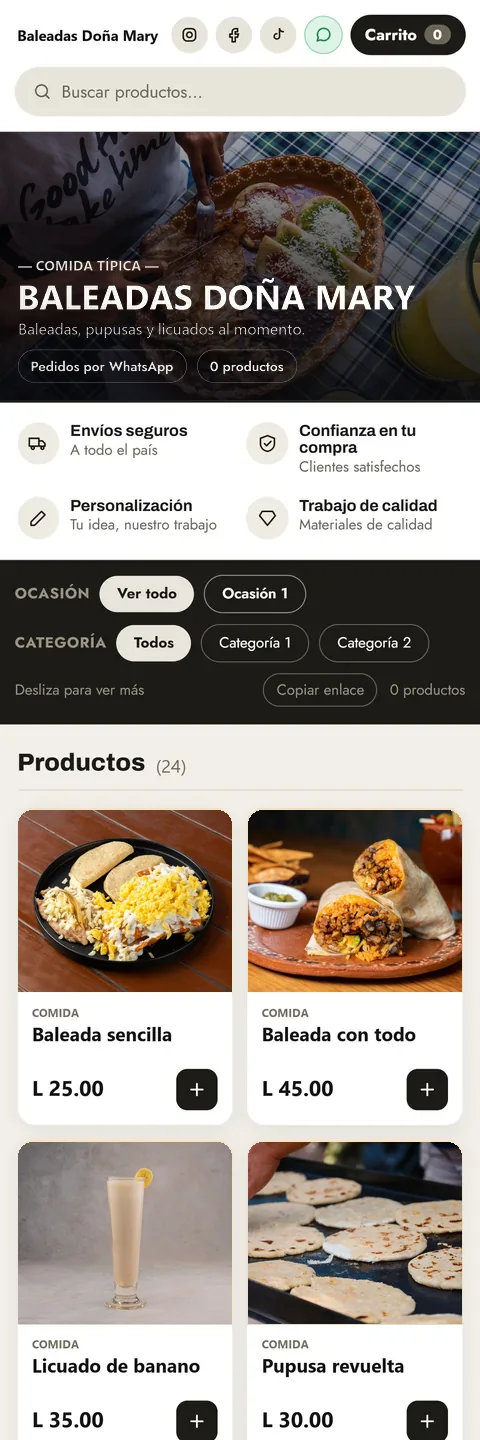
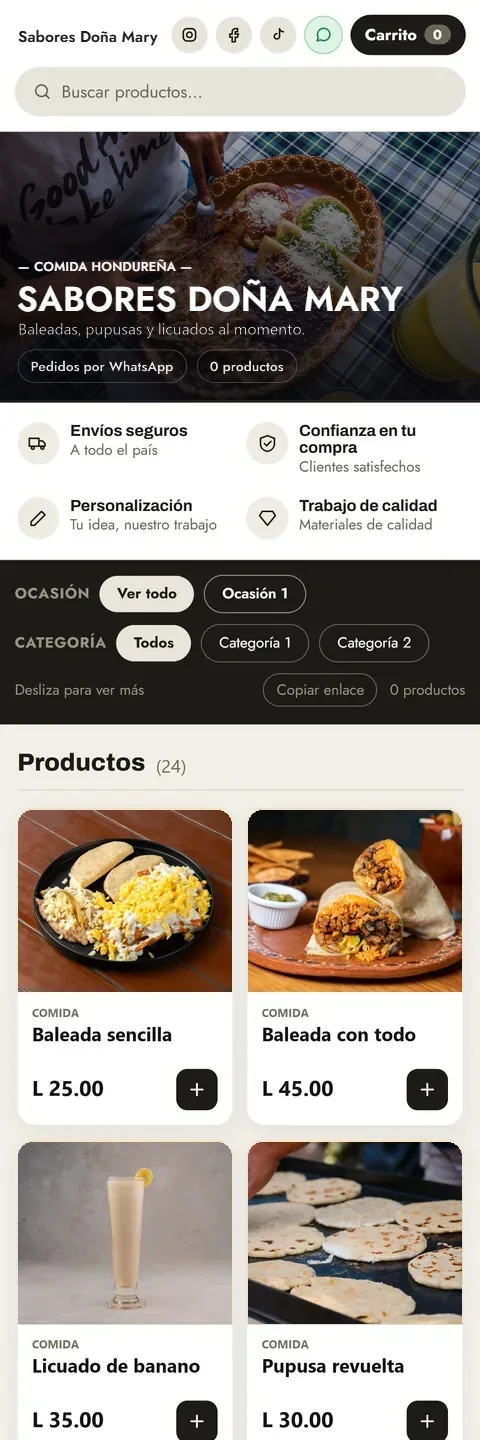
Nombres de ejemplo más formales, menú Inicio, redes sociales e imagen al compartir más nítida
- Sabores Doña Mary, Repostería La Espiga y Glamour Studio (también dentro de los catálogos)
- "Inicio" en el menú y en el pie; íconos de redes (solo las que tengan enlace)
- Título al compartir con DRC System; imagen con laptop y logo más grandes

Changed region(s): [[0.0312, 0.1562, 0.875, 0.2188], [0.0312, 0.0, 0.3125, 0.0312]]

diff --git a/css/styles.css b/css/styles.css
@@ -589,6 +589,15 @@ html { scrollbar-color: #2A3563 var(--night); }
 .faq__item summary:hover { color: var(--sky); }
 .faq__item p { margin: -6px 0 24px; color: var(--muted); max-width: 64ch; }
 
+/* ---------- Redes sociales ---------- */
+.social { list-style: none; padding: 0; margin: 0; display: flex; gap: 12px; }
+.social a { display: grid; place-items: center; width: 46px; height: 46px; border-radius: 50%; border: 1px solid var(--line); color: var(--ink); transition: background-color 200ms var(--ease-out), border-color 200ms, transform 200ms var(--ease-out); }
+.social a:hover { background: rgba(255,255,255,.06); border-color: rgba(167,176,204,.45); }
+.social a:active { transform: scale(.95); }
+.social svg { width: 21px; height: 21px; }
+.social--close { justify-content: center; margin-top: 4px; }
+.social--foot { max-width: var(--maxw); margin: 28px auto 0; }
+
 /* ---------- Botón flotante de WhatsApp ---------- */
 .wa-float {
   position: fixed; right: max(16px, env(safe-area-inset-right)); bottom: max(16px, env(safe-area-inset-bottom)); z-index: 40;
